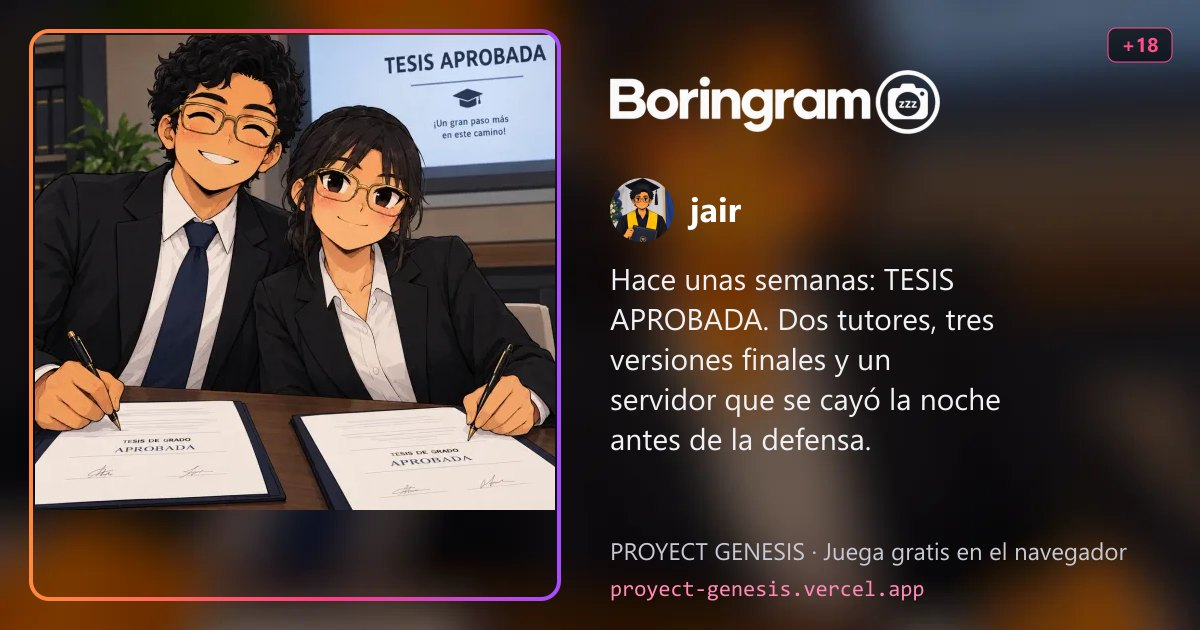
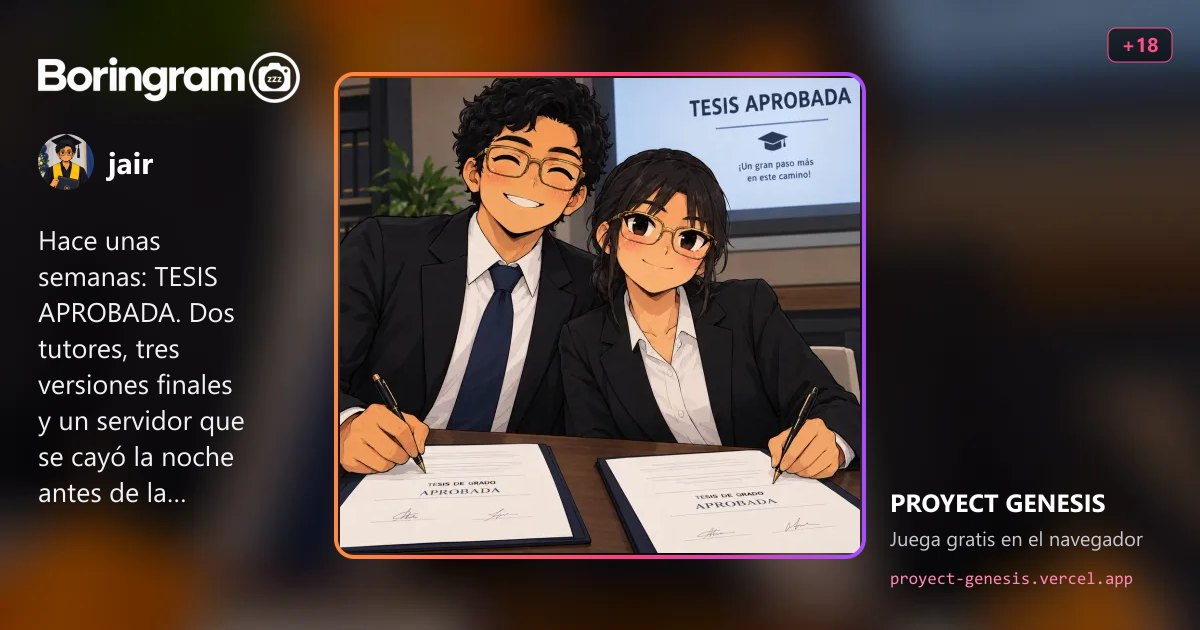
Boringram: tarjetas para compartir con la foto en el centro (si la red muestra la vista chica, se ve la foto), texto de hasta 8 líneas y versión en los enlaces para que las redes no usen la vista previa vieja

diff --git a/public/compartir/jair_graduado-3.html b/public/compartir/jair_graduado-3.html
@@ -8,14 +8,14 @@
 <meta property="og:site_name" content="PROYECT GENESIS" />
 <meta property="og:title" content="jair en Boringram · PROYECT GENESIS" />
 <meta property="og:description" content="«Hace unas semanas: TESIS APROBADA. Dos tutores, tres versiones finales y un servidor que se cayó la noche antes de la defensa.» Novela visual para adultos (18+). Juega gratis en el navegador." />
-<meta property="og:url" content="https://proyect-genesis.vercel.app/compartir/jair_graduado-3.html" />
-<meta property="og:image" content="https://proyect-genesis.vercel.app/compartir/jair_graduado-3.jpg" />
+<meta property="og:url" content="https://proyect-genesis.vercel.app/compartir/jair_graduado-3.html?v=2" />
+<meta property="og:image" content="https://proyect-genesis.vercel.app/compartir/jair_graduado-3.jpg?v=2" />
 <meta property="og:image:width" content="1200" />
 <meta property="og:image:height" content="630" />
 <meta name="twitter:card" content="summary_large_image" />
 <meta name="twitter:title" content="jair en Boringram · PROYECT GENESIS" />
 <meta name="twitter:description" content="«Hace unas semanas: TESIS APROBADA. Dos tutores, tres versiones finales y un servidor que se cayó la noche antes de la defensa.» Novela visual para adultos (18+). Juega gratis en el navegador." />
-<meta name="twitter:image" content="https://proyect-genesis.vercel.app/compartir/jair_graduado-3.jpg" />
+<meta name="twitter:image" content="https://proyect-genesis.vercel.app/compartir/jair_graduado-3.jpg?v=2" />
 <meta http-equiv="refresh" content="0; url=../" />
 <style>body{margin:0;min-height:100vh;display:grid;place-items:center;background:#000;color:#ccc;font-family:system-ui,sans-serif}</style>
 </head>

diff --git a/public/compartir/nikki_fiesta_amigas.html b/public/compartir/nikki_fiesta_amigas.html
@@ -8,14 +8,14 @@
 <meta property="og:site_name" content="PROYECT GENESIS" />
 <meta property="og:title" content="nikki en Boringram · PROYECT GENESIS" />
 <meta property="og:description" content="«las de siempre 🥂 no pregunten por el resto de la noche» Novela visual para adultos (18+). Juega gratis en el navegador." />
-<meta property="og:url" content="https://proyect-genesis.vercel.app/compartir/nikki_fiesta_amigas.html" />
-<meta property="og:image" content="https://proyect-genesis.vercel.app/compartir/nikki_fiesta_amigas.jpg" />
+<meta property="og:url" content="https://proyect-genesis.vercel.app/compartir/nikki_fiesta_amigas.html?v=2" />
+<meta property="og:image" content="https://proyect-genesis.vercel.app/compartir/nikki_fiesta_amigas.jpg?v=2" />
 <meta property="og:image:width" content="1200" />
 <meta property="og:image:height" content="630" />
 <meta name="twitter:card" content="summary_large_image" />
 <meta name="twitter:title" content="nikki en Boringram · PROYECT GENESIS" />
 <meta name="twitter:description" content="«las de siempre 🥂 no pregunten por el resto de la noche» Novela visual para adultos (18+). Juega gratis en el navegador." />
-<meta name="twitter:image" content="https://proyect-genesis.vercel.app/compartir/nikki_fiesta_amigas.jpg" />
+<meta name="twitter:image" content="https://proyect-genesis.vercel.app/compartir/nikki_fiesta_amigas.jpg?v=2" />
 <meta http-equiv="refresh" content="0; url=../" />
 <style>body{margin:0;min-height:100vh;display:grid;place-items:center;background:#000;color:#ccc;font-family:system-ui,sans-serif}</style>
 </head>

diff --git a/public/compartir/nikki_selfie_trabajo.html b/public/compartir/nikki_selfie_trabajo.html
@@ -8,14 +8,14 @@
 <meta property="og:site_name" content="PROYECT GENESIS" />
 <meta property="og:title" content="nikki en Boringram · PROYECT GENESIS" />
 <meta property="og:description" content="«hora 11 del turno. el sabor del dia es cansancio 🍦» Novela visual para adultos (18+). Juega gratis en el navegador." />
-<meta property="og:url" content="https://proyect-genesis.vercel.app/compartir/nikki_selfie_trabajo.html" />
-<meta property="og:image" content="https://proyect-genesis.vercel.app/compartir/nikki_selfie_trabajo.jpg" />
+<meta property="og:url" content="https://proyect-genesis.vercel.app/compartir/nikki_selfie_trabajo.html?v=2" />
+<meta property="og:image" content="https://proyect-genesis.vercel.app/compartir/nikki_selfie_trabajo.jpg?v=2" />
 <meta property="og:image:width" content="1200" />
 <meta property="og:image:height" content="630" />
 <meta name="twitter:card" content="summary_large_image" />
 <meta name="twitter:title" content="nikki en Boringram · PROYECT GENESIS" />
 <meta name="twitter:description" content="«hora 11 del turno. el sabor del dia es cansancio 🍦» Novela visual para adultos (18+). Juega gratis en el navegador." />
-<meta name="twitter:image" content="https://proyect-genesis.vercel.app/compartir/nikki_selfie_trabajo.jpg" />
+<meta name="twitter:image" content="https://proyect-genesis.vercel.app/compartir/nikki_selfie_trabajo.jpg?v=2" />
 <meta http-equiv="refresh" content="0; url=../" />
 <style>body{margin:0;min-height:100vh;display:grid;place-items:center;background:#000;color:#ccc;font-family:system-ui,sans-serif}</style>
 </head>

diff --git a/public/compartir/jair_graduado-2.html b/public/compartir/jair_graduado-2.html
@@ -8,14 +8,14 @@
 <meta property="og:site_name" content="PROYECT GENESIS" />
 <meta property="og:title" content="jair en Boringram · PROYECT GENESIS" />
 <meta property="og:description" content="«Con mi compañera de tesis. Ella puso la sonrisa; yo, las ojeras.» Novela visual para adultos (18+). Juega gratis en el navegador." />
-<meta property="og:url" content="https://proyect-genesis.vercel.app/compartir/jair_graduado-2.html" />
-<meta property="og:image" content="https://proyect-genesis.vercel.app/compartir/jair_graduado-2.jpg" />
+<meta property="og:url" content="https://proyect-genesis.vercel.app/compartir/jair_graduado-2.html?v=2" />
+<meta property="og:image" content="https://proyect-genesis.vercel.app/compartir/jair_graduado-2.jpg?v=2" />
 <meta property="og:image:width" content="1200" />
 <meta property="og:image:height" content="630" />
 <meta name="twitter:card" content="summary_large_image" />
 <meta name="twitter:title" content="jair en Boringram · PROYECT GENESIS" />
 <meta name="twitter:description" content="«Con mi compañera de tesis. Ella puso la sonrisa; yo, las ojeras.» Novela visual para adultos (18+). Juega gratis en el navegador." />
-<meta name="twitter:image" content="https://proyect-genesis.vercel.app/compartir/jair_graduado-2.jpg" />
+<meta name="twitter:image" content="https://proyect-genesis.vercel.app/compartir/jair_graduado-2.jpg?v=2" />
 <meta http-equiv="refresh" content="0; url=../" />
 <style>body{margin:0;min-height:100vh;display:grid;place-items:center;background:#000;color:#ccc;font-family:system-ui,sans-serif}</style>
 </head>

diff --git a/public/compartir/nikki_perfil.html b/public/compartir/nikki_perfil.html
@@ -8,14 +8,14 @@
 <meta property="og:site_name" content="PROYECT GENESIS" />
 <meta property="og:title" content="nikki en Boringram · PROYECT GENESIS" />
 <meta property="og:description" content="«una noche sin uniforme y sin gafete. casi parezco una persona» Novela visual para adultos (18+). Juega gratis en el navegador." />
-<meta property="og:url" content="https://proyect-genesis.vercel.app/compartir/nikki_perfil.html" />
-<meta property="og:image" content="https://proyect-genesis.vercel.app/compartir/nikki_perfil.jpg" />
+<meta property="og:url" content="https://proyect-genesis.vercel.app/compartir/nikki_perfil.html?v=2" />
+<meta property="og:image" content="https://proyect-genesis.vercel.app/compartir/nikki_perfil.jpg?v=2" />
 <meta property="og:image:width" content="1200" />
 <meta property="og:image:height" content="630" />
 <meta name="twitter:card" content="summary_large_image" />
 <meta name="twitter:title" content="nikki en Boringram · PROYECT GENESIS" />
 <meta name="twitter:description" content="«una noche sin uniforme y sin gafete. casi parezco una persona» Novela visual para adultos (18+). Juega gratis en el navegador." />
-<meta name="twitter:image" content="https://proyect-genesis.vercel.app/compartir/nikki_perfil.jpg" />
+<meta name="twitter:image" content="https://proyect-genesis.vercel.app/compartir/nikki_perfil.jpg?v=2" />
 <meta http-equiv="refresh" content="0; url=../" />
 <style>body{margin:0;min-height:100vh;display:grid;place-items:center;background:#000;color:#ccc;font-family:system-ui,sans-serif}</style>
 </head>

diff --git a/public/compartir/jair_sushi.html b/public/compartir/jair_sushi.html
@@ -8,14 +8,14 @@
 <meta property="og:site_name" content="PROYECT GENESIS" />
 <meta property="og:title" content="jair en Boringram · PROYECT GENESIS" />
 <meta property="og:description" content="«Viernes de sushi con la de siempre. Pagamos a medias, como todo.» Novela visual para adultos (18+). Juega gratis en el navegador." />
-<meta property="og:url" content="https://proyect-genesis.vercel.app/compartir/jair_sushi.html" />
-<meta property="og:image" content="https://proyect-genesis.vercel.app/compartir/jair_sushi.jpg" />
+<meta property="og:url" content="https://proyect-genesis.vercel.app/compartir/jair_sushi.html?v=2" />
+<meta property="og:image" content="https://proyect-genesis.vercel.app/compartir/jair_sushi.jpg?v=2" />
 <meta property="og:image:width" content="1200" />
 <meta property="og:image:height" content="630" />
 <meta name="twitter:card" content="summary_large_image" />
 <meta name="twitter:title" content="jair en Boringram · PROYECT GENESIS" />
 <meta name="twitter:description" content="«Viernes de sushi con la de siempre. Pagamos a medias, como todo.» Novela visual para adultos (18+). Juega gratis en el navegador." />
-<meta name="twitter:image" content="https://proyect-genesis.vercel.app/compartir/jair_sushi.jpg" />
+<meta name="twitter:image" content="https://proyect-genesis.vercel.app/compartir/jair_sushi.jpg?v=2" />
 <meta http-equiv="refresh" content="0; url=../" />
 <style>body{margin:0;min-height:100vh;display:grid;place-items:center;background:#000;color:#ccc;font-family:system-ui,sans-serif}</style>
 </head>

diff --git a/public/compartir/nikki_rosas.html b/public/compartir/nikki_rosas.html
@@ -8,14 +8,14 @@
 <meta property="og:site_name" content="PROYECT GENESIS" />
 <meta property="og:title" content="nikki en Boringram · PROYECT GENESIS" />
 <meta property="og:description" content="«otro año sobreviviendo 🎂🌹 gracias a quien ya sabe» Novela visual para adultos (18+). Juega gratis en el navegador." />
-<meta property="og:url" content="https://proyect-genesis.vercel.app/compartir/nikki_rosas.html" />
-<meta property="og:image" content="https://proyect-genesis.vercel.app/compartir/nikki_rosas.jpg" />
+<meta property="og:url" content="https://proyect-genesis.vercel.app/compartir/nikki_rosas.html?v=2" />
+<meta property="og:image" content="https://proyect-genesis.vercel.app/compartir/nikki_rosas.jpg?v=2" />
 <meta property="og:image:width" content="1200" />
 <meta property="og:image:height" content="630" />
 <meta name="twitter:card" content="summary_large_image" />
 <meta name="twitter:title" content="nikki en Boringram · PROYECT GENESIS" />
 <meta name="twitter:description" content="«otro año sobreviviendo 🎂🌹 gracias a quien ya sabe» Novela visual para adultos (18+). Juega gratis en el navegador." />
-<meta name="twitter:image" content="https://proyect-genesis.vercel.app/compartir/nikki_rosas.jpg" />
+<meta name="twitter:image" content="https://proyect-genesis.vercel.app/compartir/nikki_rosas.jpg?v=2" />
 <meta http-equiv="refresh" content="0; url=../" />
 <style>body{margin:0;min-height:100vh;display:grid;place-items:center;background:#000;color:#ccc;font-family:system-ui,sans-serif}</style>
 </head>

diff --git a/public/compartir/jair_graduado.html b/public/compartir/jair_graduado.html
@@ -8,14 +8,14 @@
 <meta property="og:site_name" content="PROYECT GENESIS" />
 <meta property="og:title" content="jair en Boringram · PROYECT GENESIS" />
 <meta property="og:description" content="«Ingeniero. Ahora sí, a ganar dinero.» Novela visual para adultos (18+). Juega gratis en el navegador." />
-<meta property="og:url" content="https://proyect-genesis.vercel.app/compartir/jair_graduado.html" />
-<meta property="og:image" content="https://proyect-genesis.vercel.app/compartir/jair_graduado.jpg" />
+<meta property="og:url" content="https://proyect-genesis.vercel.app/compartir/jair_graduado.html?v=2" />
+<meta property="og:image" content="https://proyect-genesis.vercel.app/compartir/jair_graduado.jpg?v=2" />
 <meta property="og:image:width" content="1200" />
 <meta property="og:image:height" content="630" />
 <meta name="twitter:card" content="summary_large_image" />
 <meta name="twitter:title" content="jair en Boringram · PROYECT GENESIS" />
 <meta name="twitter:description" content="«Ingeniero. Ahora sí, a ganar dinero.» Novela visual para adultos (18+). Juega gratis en el navegador." />
-<meta name="twitter:image" content="https://proyect-genesis.vercel.app/compartir/jair_graduado.jpg" />
+<meta name="twitter:image" content="https://proyect-genesis.vercel.app/compartir/jair_graduado.jpg?v=2" />
 <meta http-equiv="refresh" content="0; url=../" />
 <style>body{margin:0;min-height:100vh;display:grid;place-items:center;background:#000;color:#ccc;font-family:system-ui,sans-serif}</style>
 </head>

diff --git a/public/compartir/jair_favorita.html b/public/compartir/jair_favorita.html
@@ -8,14 +8,14 @@
 <meta property="og:site_name" content="PROYECT GENESIS" />
 <meta property="og:title" content="jair en Boringram · PROYECT GENESIS" />
 <meta property="og:description" content="«la de siempre 🍻» Novela visual para adultos (18+). Juega gratis en el navegador." />
-<meta property="og:url" content="https://proyect-genesis.vercel.app/compartir/jair_favorita.html" />
-<meta property="og:image" content="https://proyect-genesis.vercel.app/compartir/jair_favorita.jpg" />
+<meta property="og:url" content="https://proyect-genesis.vercel.app/compartir/jair_favorita.html?v=2" />
+<meta property="og:image" content="https://proyect-genesis.vercel.app/compartir/jair_favorita.jpg?v=2" />
 <meta property="og:image:width" content="1200" />
 <meta property="og:image:height" content="630" />
 <meta name="twitter:card" content="summary_large_image" />
 <meta name="twitter:title" content="jair en Boringram · PROYECT GENESIS" />
 <meta name="twitter:description" content="«la de siempre 🍻» Novela visual para adultos (18+). Juega gratis en el navegador." />
-<meta name="twitter:image" content="https://proyect-genesis.vercel.app/compartir/jair_favorita.jpg" />
+<meta name="twitter:image" content="https://proyect-genesis.vercel.app/compartir/jair_favorita.jpg?v=2" />
 <meta http-equiv="refresh" content="0; url=../" />
 <style>body{margin:0;min-height:100vh;display:grid;place-items:center;background:#000;color:#ccc;font-family:system-ui,sans-serif}</style>
 </head>

diff --git a/public/compartir/nikki_una_sola.html b/public/compartir/nikki_una_sola.html
@@ -8,14 +8,14 @@
 <meta property="og:site_name" content="PROYECT GENESIS" />
 <meta property="og:title" content="nikki en Boringram · PROYECT GENESIS" />
 <meta property="og:description" content="«una sola» Novela visual para adultos (18+). Juega gratis en el navegador." />
-<meta property="og:url" content="https://proyect-genesis.vercel.app/compartir/nikki_una_sola.html" />
-<meta property="og:image" content="https://proyect-genesis.vercel.app/compartir/nikki_una_sola.jpg" />
+<meta property="og:url" content="https://proyect-genesis.vercel.app/compartir/nikki_una_sola.html?v=2" />
+<meta property="og:image" content="https://proyect-genesis.vercel.app/compartir/nikki_una_sola.jpg?v=2" />
 <meta property="og:image:width" content="1200" />
 <meta property="og:image:height" content="630" />
 <meta name="twitter:card" content="summary_large_image" />
 <meta name="twitter:title" content="nikki en Boringram · PROYECT GENESIS" />
 <meta name="twitter:description" content="«una sola» Novela visual para adultos (18+). Juega gratis en el navegador." />
-<meta name="twitter:image" content="https://proyect-genesis.vercel.app/compartir/nikki_una_sola.jpg" />
+<meta name="twitter:image" content="https://proyect-genesis.vercel.app/compartir/nikki_una_sola.jpg?v=2" />
 <meta http-equiv="refresh" content="0; url=../" />
 <style>body{margin:0;min-height:100vh;display:grid;place-items:center;background:#000;color:#ccc;font-family:system-ui,sans-serif}</style>
 </head>

diff --git a/src/components/Boringram.tsx b/src/components/Boringram.tsx
@@ -752,7 +752,7 @@ function ShareSheet({ b, id, onClose }: { b: B; id: string; onClose: () => void 
   const [note, setNote] = useState('');
   if (!post) return null;
   const user = b.perfiles[post.autor]?.usuario ?? post.autor;
-  const url = `${b.data.sitio}compartir/${id}.html`;
+  const url = `${b.data.sitio}compartir/${id}.html?v=${b.data.compartir_version ?? 1}`;
   const text = `${tx.compartir_texto} · ${user}: «${post.texto}»`;
   const card = assetUrl(`compartir/${id}.jpg`);
   const open = (href: string) => {

diff --git a/src/engine/boringram.ts b/src/engine/boringram.ts
@@ -120,6 +120,8 @@ export interface BoringramData {
   yo: string;
   /** Dirección del juego publicado (para compartir). */
   sitio: string;
+  /** Se sube al cambiar el diseño de las tarjetas: así las redes no muestran la vista previa vieja. */
+  compartir_version?: number;
   sin_senal: { titulo: string; texto: string };
   perfiles: Record<string, Perfil>;
   publicaciones: Publicacion[];
